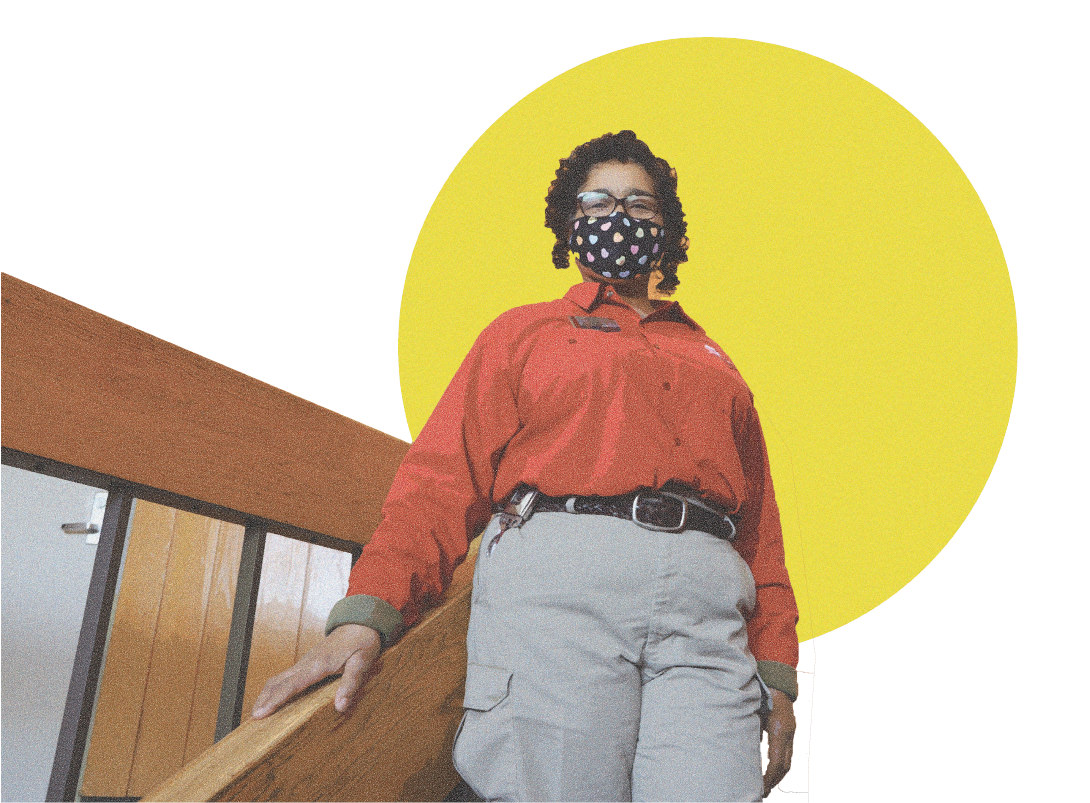
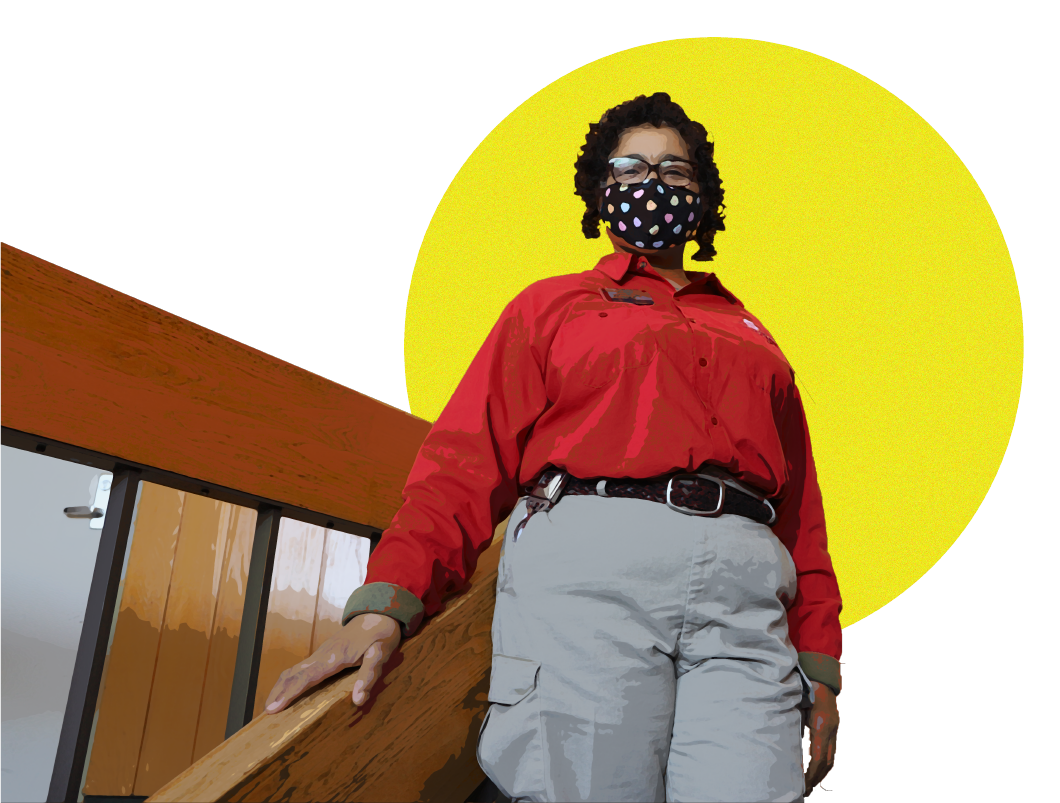
responsiveness updates

diff --git a/css/blackvoices.css b/css/blackvoices.css
@@ -187,20 +187,6 @@ html, body{
     font-family: Body;
     font-size: .9vw;
 }
-/* #flex-start{
-    justify-self: flex-start;
-}
-#flex-end{
-    justify-self: flex-end;
-} */
-
-/* .intro-text::first-letter{
-    initial-letter: 2;
-    font-family: Regular;
-    -webkit-text-fill-color: transparent;
-    -webkit-text-stroke-color: yellow;
-    -webkit-text-stroke-width: 3px;
-} */
 
 
 /* button  */
@@ -218,7 +204,6 @@ button{
     color: yellow;
 }
 button:hover{
-    border: none;
     font-family: Nav;
     color: black;
     background-color: yellow;
@@ -232,7 +217,7 @@ button:active{
 
 /* Phone Breakpoint  */
 
-@media only screen and (min-width: 0px) and (max-width: 640px) {
+@media only screen and (max-width: 640px) {
     .nav {
         display: flex;
         flex-wrap: wrap;
@@ -365,11 +350,11 @@ button:active{
         display: flex;
         flex-direction: column;
         justify-content: center;
-        width: 50%;
+        width: 50vw;
         padding-bottom: 5vh;
     }
     .blackxbold{
-        padding-bottom: 2vh;
+        padding-bottom: 3vh;
     }
 
 
@@ -378,7 +363,7 @@ button:active{
 
 /* iPad Pro Breakpoint */
 
-  @media only screen and (min-width: 1024px) and (max-width: 1200px) {
+  @media only screen and (min-width: 1024px){
     
     .marquee-grid{
         padding-top: 30px
@@ -532,7 +517,7 @@ button:active{
 
 /* iPad responsive */
 
-  @media only screen and (min-width: 800px) and (max-width: 1023px) {
+  @media only screen and (min-width: 600px) {
     .nav {
         display: flex;
         flex-wrap: wrap;

diff --git a/index.html b/index.html
@@ -69,7 +69,7 @@
 
     <div id="post-1" class="post-container">
         <div class="post-image">
-            <img src="BLACK VOICES/Bella color.png" alt="">
+            <img src="BLACK VOICES/Bella final.png" alt="">
         </div>
         <div class="post-text">
             <div class="story-title">
@@ -94,7 +94,7 @@
         </div>
         <div class="small-post-text">
             <div class="story-title-small">
-                Headline
+                This is a test headline, it's kind of long. It's even longer now.
             </div>
             <br>
             <div class="story-tease-small">
@@ -186,11 +186,11 @@
    
     <div class="post-container">
         <div id="post-3" class="post-image">
-            <img src="assets/pizza.jpg" alt="">
+            <img src="BLACK VOICES/Kasie.png" alt="">
         </div>
         <div class="post-text">
             <div class="story-title">
-                Headline 3
+                This is a test headline, it's kind of long. It's even longer now.
             </div>
             <br>
             <div class="story-tease">
